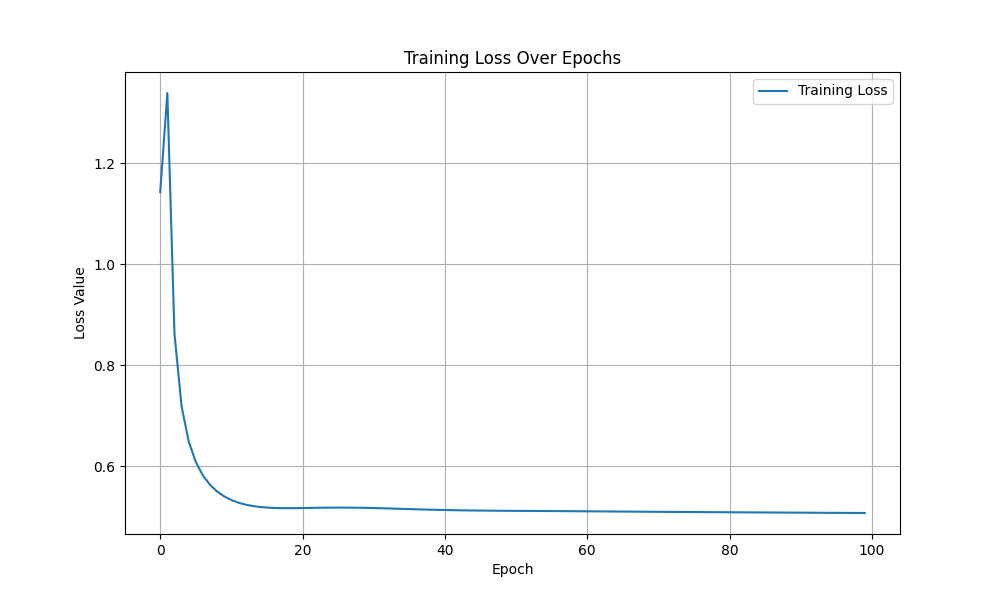
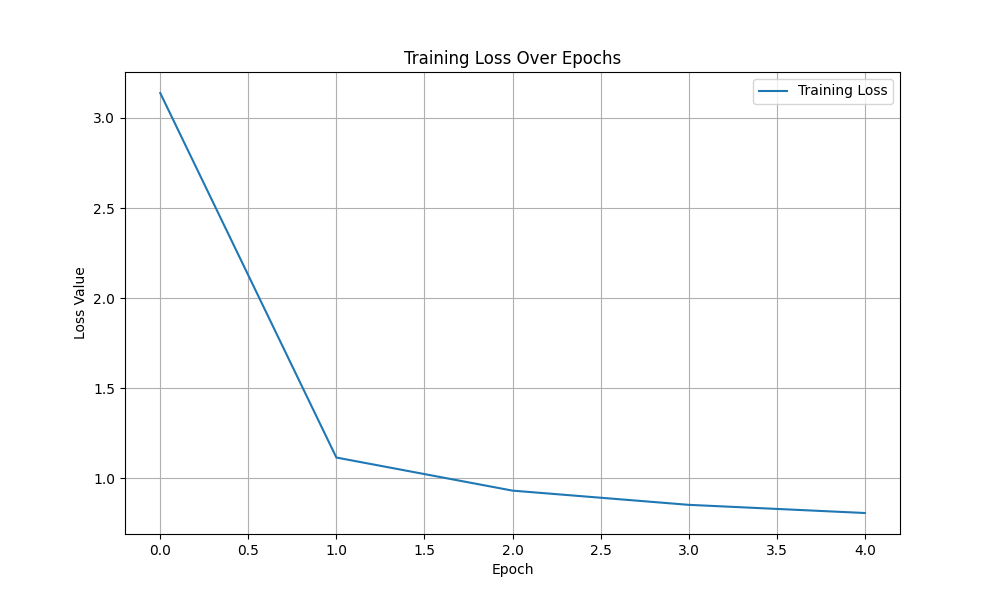
trained on spiral trajectories
Neural ODE learned well, and now going to try with some gaussian noise.

diff --git a/models/neural_ode.py b/models/neural_ode.py
@@ -37,12 +37,18 @@ class ODEFunc(nn.Module):
     def forward(self, t, state):
         #time invariant behavior
         if not self.time_invariant:
-            state = torch.cat((state, t), dim=1)
+            #batch_size
+            batch = state.shape[0]
+
+            #expand t to match batch_size [] --> [batch_size, 1]
+            t_expanded = t.expand(batch, 1)
+
+            state = torch.cat((state, t_expanded), dim=1)
         
         return self.net(state)
 
     
-def train_ode(model, epochs, optimizer, criterion, t, state):
+def train_ode(model, epochs, optimizer, criterion, true_traj, t, y0):
     losses = []
 
     # Training loop
@@ -50,16 +56,17 @@ def train_ode(model, epochs, optimizer, criterion, t, state):
         optimizer.zero_grad()
 
         # Integration from t_0 up to t_final
-        pred_state = odeint(model, state[0:1], t)
+        #[n_samples, batch_size, 2]
+        pred_state = odeint(model, y0, t, method='dopri5')
 
-        loss = criterion(pred_state, state)
+        loss = criterion(pred_state, true_traj)
         loss.backward()
         optimizer.step()
 
         losses.append(loss.item())
 
-        if epoch % 20 == 0:  # Print less frequently
-            print(f"Epoch #{epoch} | Loss: {loss.item():.6f}")
+        if (epoch + 1) % 10 == 0:
+            print(f"Epoch {epoch+1}/{epochs} | Loss: {loss.item():.6f}")
 
     return losses
 
@@ -262,23 +269,35 @@ def plot_learned_dynamics_vs_true(model, device, file_name, y_range=(-1.5, 1.5),
     print(f"Plot saved to: {full_path}")
 
 #Plot spiral extrapolation
-def plot_spiral_extrapolation(t_train, state_train, state_future, file_name=None, model=None, device=None):
+def plot_spiral_extrapolation(t_train, state_train, state_future, true_func=None, file_name=None, model=None, device=None):
     # Extract coordinates
     x_train = state_train[:, 0].cpu().numpy()
     y_train = state_train[:, 1].cpu().numpy()
+    y0_train = state_train[0:1, :].to(device)
     
     x_future = state_future[:, 0, 0].cpu().numpy()
     y_future = state_future[:, 0, 1].cpu().numpy()
     
-    # Generate ground truth
-    t_gt = t_train.cpu().numpy()
-    x_gt = np.sin(t_gt) * np.exp(-0.1 * t_gt)
-    y_gt = np.cos(t_gt) * np.exp(-0.1 * t_gt)
-    
     plt.figure(figsize=(10, 10))
-    
-    # Ground truth
-    plt.plot(x_gt, y_gt, 'gray', linestyle='--', alpha=0.4, linewidth=2, label='Ground Truth')
+
+    # Generate TRUE ground truth using the ODE solver
+    if true_func is not None and device is not None:
+        with torch.no_grad():
+            # Create dense time points for smooth ground truth
+            t_train_min = t_train[0].item()
+            t_train_max = t_train[-1].item()
+            t_gt_dense = torch.linspace(t_train_min, t_train_max, 300).to(device)
+            
+            # Solve TRUE dynamics
+            state_gt = odeint(true_func, y0_train, t_gt_dense)
+            
+            # Extract coordinates
+            x_gt = state_gt[:, 0, 0].cpu().numpy()
+            y_gt = state_gt[:, 0, 1].cpu().numpy()
+            
+            # Plot ground truth
+            plt.plot(x_gt, y_gt, 'gray', linestyle='--', alpha=0.5, 
+                    linewidth=2.5, label='True Dynamics (Ground Truth)')
 
     #if model is provided, compute the learned trajectory through the trainin region.
     if model is not None and device is not None:
@@ -344,56 +363,42 @@ def evaluate_on_holdout(model, criterion, t_test, data_test):
         loss = criterion(pred_state, data_test)
     return loss.item()
 
-def plot_train_test_comparison(model, t_train, data_train, t_test, data_test, t_max, device, file_name):
-    model.eval()
+def plot_comparison(true_func, learned_func, device, file_name="True vs. Learned Dynamics.png", n_trajectories=5):
+    """Compare true vs learned dynamics"""
     
-    # Generate predictions on a dense grid for smooth visualization
-    t_dense = torch.linspace(0, t_max, 500).to(device)
+    fig, axes = plt.subplots(1, 2, figsize=(14, 6))
     
+    # Generate test initial conditions
+    theta = torch.linspace(0, 2*np.pi, n_trajectories+1)[:-1]
+    y0 = torch.stack([
+        2.0 * torch.cos(theta),
+        2.0 * torch.sin(theta)
+    ], dim=1).to(device)
+    
+    t = torch.linspace(0, 25, 200).to(device)
+    
+    # True dynamics
     with torch.no_grad():
-        pred_dense = odeint(model, data_train[0:1], t_dense)
+        true_traj = odeint(true_func, y0, t, method='dopri5')
+        pred_traj = odeint(learned_func, y0, t, method='dopri5')
     
-    # Extract coordinates
-    x_train = data_train[:, 0].cpu().numpy()
-    y_train = data_train[:, 1].cpu().numpy()
+    # Plot true spirals
+    for i in range(n_trajectories):
+        traj = true_traj[:, i, :].cpu().numpy()
+        axes[0].plot(traj[:, 0], traj[:, 1], 'b-', alpha=0.6)
+        axes[0].scatter(traj[0, 0], traj[0, 1], c='green', s=50, zorder=5)
     
-    x_test = data_test[:, 0].cpu().numpy()
-    y_test = data_test[:, 1].cpu().numpy()
+    axes[0].set_title("True Dynamics")
+    axes[0].set_xlabel("x")
+    axes[0].set_ylabel("y")
+    axes[0].grid(True, alpha=0.3)
+    axes[0].axis('equal')
     
-    x_pred = pred_dense[:, 0, 0].cpu().numpy()
-    y_pred = pred_dense[:, 0, 1].cpu().numpy()
-    
-    # Generate ground truth
-    t_gt = torch.linspace(0, t_max, 500).cpu().numpy()
-    x_gt = np.sin(t_gt) * np.exp(-0.1 * t_gt)
-    y_gt = np.cos(t_gt) * np.exp(-0.1 * t_gt)
-    
-    plt.figure(figsize=(12, 12))
-    
-    # Ground truth (dashed gray)
-    plt.plot(x_gt, y_gt, 'gray', linestyle='--', alpha=0.4, linewidth=2, label='Ground Truth')
-    
-    # Model prediction (smooth line)
-    plt.plot(x_pred, y_pred, 'green', linewidth=1.5, alpha=0.8, label='Model Prediction')
-    
-    # Training data points (blue)
-    plt.scatter(x_train, y_train, c='blue', s=50, alpha=0.7, zorder=5, 
-               edgecolors='navy', linewidth=0.5, label=f'Train Data (n={len(x_train)})')
-    
-    # Test/hold-out data points (red)
-    plt.scatter(x_test, y_test, c='red', s=50, alpha=0.7, zorder=5, 
-               edgecolors='darkred', linewidth=0.5, label=f'Test Data (n={len(x_test)})')
-    
-    # Start marker
-    plt.scatter([x_train[0]], [y_train[0]], c='green', s=100, marker='o', 
-               edgecolors='black', linewidth=2, label='Start', zorder=10)
-    
-    plt.title("Neural ODE: Train vs Test Performance", fontsize=14, fontweight='bold')
-    plt.xlabel("x", fontsize=12)
-    plt.ylabel("y", fontsize=12)
-    plt.legend(fontsize=10, loc='upper right')
-    plt.grid(True, alpha=0.3)
-    plt.axis('equal')
+    # Plot learned spirals
+    for i in range(n_trajectories):
+        traj = pred_traj[:, i, :].cpu().numpy()
+        axes[1].plot(traj[:, 0], traj[:, 1], 'r-', alpha=0.6)
+        axes[1].scatter(traj[0, 0], traj[0, 1], c='green', s=50, zorder=5)
     
     # Save
     script_path = os.path.abspath(__file__)

diff --git a/train_multiple_trajectories.py b/train_multiple_trajectories.py
@@ -1,0 +1,39 @@
+import torch
+from models.neural_ode import ODEFunc, train_ode, plot_loss, extrapolate, plot_spiral_extrapolation, plot_comparison
+from dataset.data import SpiralDynamics, generate_spiral
+
+# Device setup (GPU if available, else CPU)
+device = torch.device("cuda" if torch.cuda.is_available() else "cpu")
+print(f"Using device: {device}")
+
+print("Loading Data...")
+true_func = SpiralDynamics(device=device).to(device)
+t, y0, true_traj = generate_spiral(true_func, batch_size=16, n_samples=100, t_max=10, device=device)
+t = t.to(device)
+y0 = y0.to(device)
+true_traj = true_traj.to(device)
+print("Data Loaded!")
+print(f"State shape: y{y0.shape}") 
+
+#MODEL, CRITERION AND OPTIMIZER
+model = ODEFunc(time_invariant=True).to(device)
+optimizer = torch.optim.Adam(model.parameters(), lr=0.01)
+criterion = torch.nn.MSELoss()
+
+#Training
+print("\nTraining Neural ODE...")
+losses =  train_ode(model, 100, optimizer, criterion, true_traj=true_traj, t=t, y0=y0)
+
+print("\nGenerating Visualizations...")
+plot_loss(losses, file_name="Losses (multiple-traj-100).png")
+plot_comparison(true_func, model, device=device, file_name="spiral_comparision (multiple-traj-100).png")
+
+#3xtrapolating one
+single_y0 = y0[0:1]
+single_true = true_traj[:, 0:1, :]
+t_future, state_future = extrapolate(model, t, single_true[:, 0, :], device=device, t_max=30)
+plot_spiral_extrapolation(t, single_true[:, 0, :], state_future, true_func=true_func, file_name="single_extrapolation (multiple-traj-100).png", model=model, device=device)
+
+
+
+

diff --git a/dataset/data.py b/dataset/data.py
@@ -28,12 +28,12 @@ def generate_irregular(n_samples, t_max=4*np.pi):
 
 #True sprial dynamics
 class SpiralDynamics(nn.Module):
-    def __init__(self):
+    def __init__(self, device="cpu"):
         super(SpiralDynamics, self).__init__()
 
         #weight matrix for spiral
         self.A = torch.tensor([[-0.1, -1.0], 
-                               [1.0, -0.1]], dtype=torch.float32)
+                               [1.0, -0.1]], dtype=torch.float32, device=device)
         
     def forward(self, t, y):
         return torch.mm(y, self.A.T)
